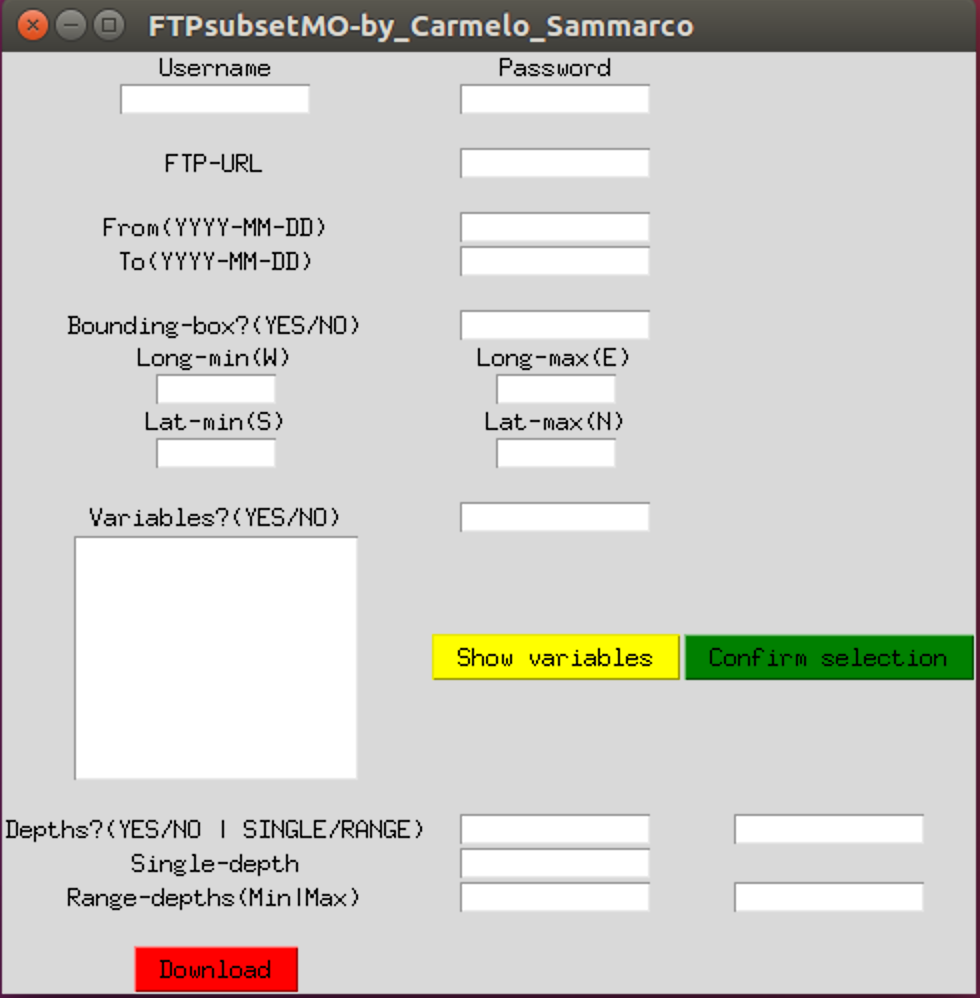
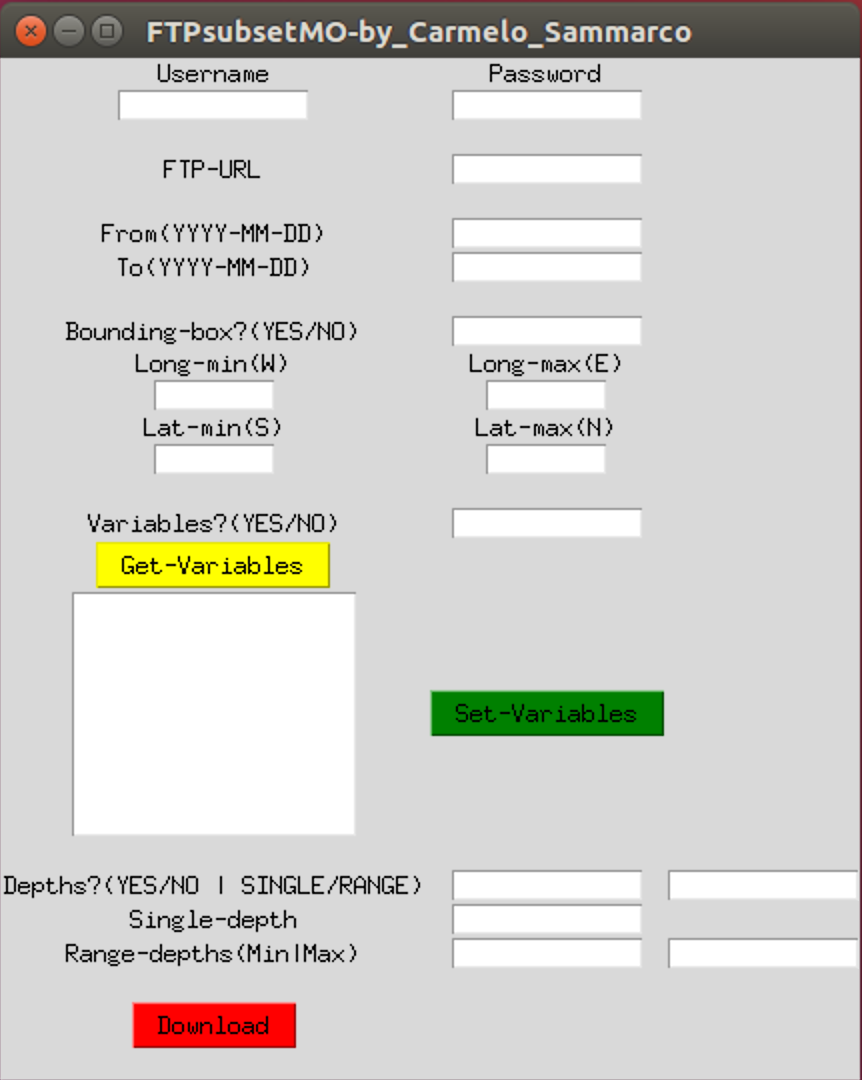
Gui fixes

Changed region(s): [[0.0, 0.0, 1.0, 1.0], [0.0, 0.0, 0.8144, 0.5281]]

diff --git a/FTPsubsetMO/__main__.py b/FTPsubsetMO/__main__.py
@@ -1424,37 +1424,37 @@ def main(args=None):
     Vex.grid(column=1, row=15)
 
     lstbox = Listbox(window, listvariable=Listvar, selectmode=MULTIPLE)
-    lstbox.grid(column=0, row=16)
+    lstbox.grid(column=0, row=17)
 
-    exvar = Button(window,text="Show variables", bg="yellow", command=extract_var)
-    exvar.grid(column=1, row=16)
+    exvar = Button(window,text="Get-Variables", bg="yellow", command=extract_var)
+    exvar.grid(column=0, row=16)
 
-    confirmvar = Button(window,text="Confirm selection", bg="green", command=select)
-    confirmvar.grid(column=2, row=16)
+    confirmvar = Button(window,text="Set-Variables", bg="green", command=select)
+    confirmvar.grid(column=1, row=17)
 
     space = Label(window, text="")
-    space.grid(column=0, row=17)
+    space.grid(column=0, row=18)
     space = Label(window, text="")
-    space.grid(column=1, row=17)
+    space.grid(column=1, row=18)
     ##
     Depex = Label(window, text="Depths?(YES/NO | SINGLE/RANGE)")
-    Depex.grid(column=0, row=18)
+    Depex.grid(column=0, row=19)
     Dex = Entry(window, width=13)
-    Dex.grid(column=1, row=18)
+    Dex.grid(column=1, row=19)
     Dtype = Entry(window, width=13)
-    Dtype.grid(column=2, row=18)
+    Dtype.grid(column=2, row=19)
     ##
     Singledepth = Label(window, text="Single-depth")
-    Singledepth.grid(column=0, row=19)
+    Singledepth.grid(column=0, row=20)
     sdepth = Entry(window, width=13)
-    sdepth.grid(column=1, row=19)
+    sdepth.grid(column=1, row=20)
     ##
     Rangedepth = Label(window, text="Range-depths(Min|Max)")
-    Rangedepth.grid(column=0, row=20)
+    Rangedepth.grid(column=0, row=21)
     Rdepthmin = Entry(window, width=13)
-    Rdepthmin.grid(column=1, row=20)
+    Rdepthmin.grid(column=1, row=21)
     Rdepthmax = Entry(window, width=13)
-    Rdepthmax.grid(column=2, row=20)
+    Rdepthmax.grid(column=2, row=21)
     ##
     space = Label(window, text="")
     space.grid(column=0, row=22)
@@ -1464,6 +1464,11 @@ def main(args=None):
 
     btn1 = Button(window, text="Download", bg="red", command=FTPsub)
     btn1.grid(column=0, row=23)
+
+    space = Label(window, text="")
+    space.grid(column=0, row=24)
+    space = Label(window, text="")
+    space.grid(column=1, row=24)
 
 
     #################################################################
